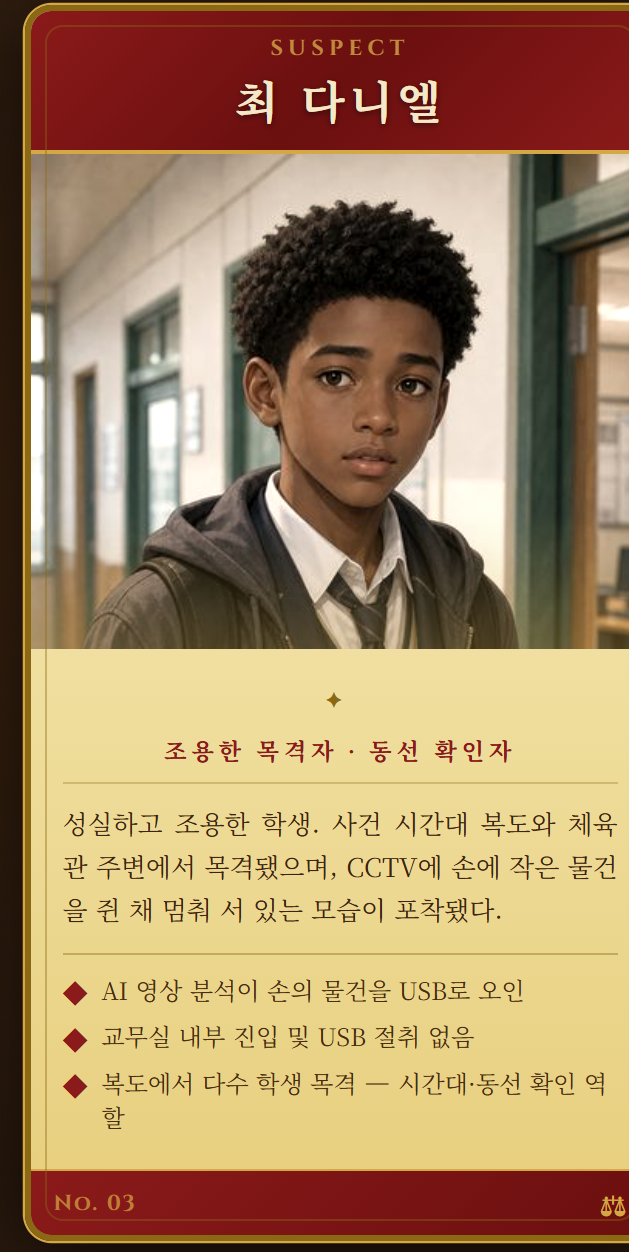
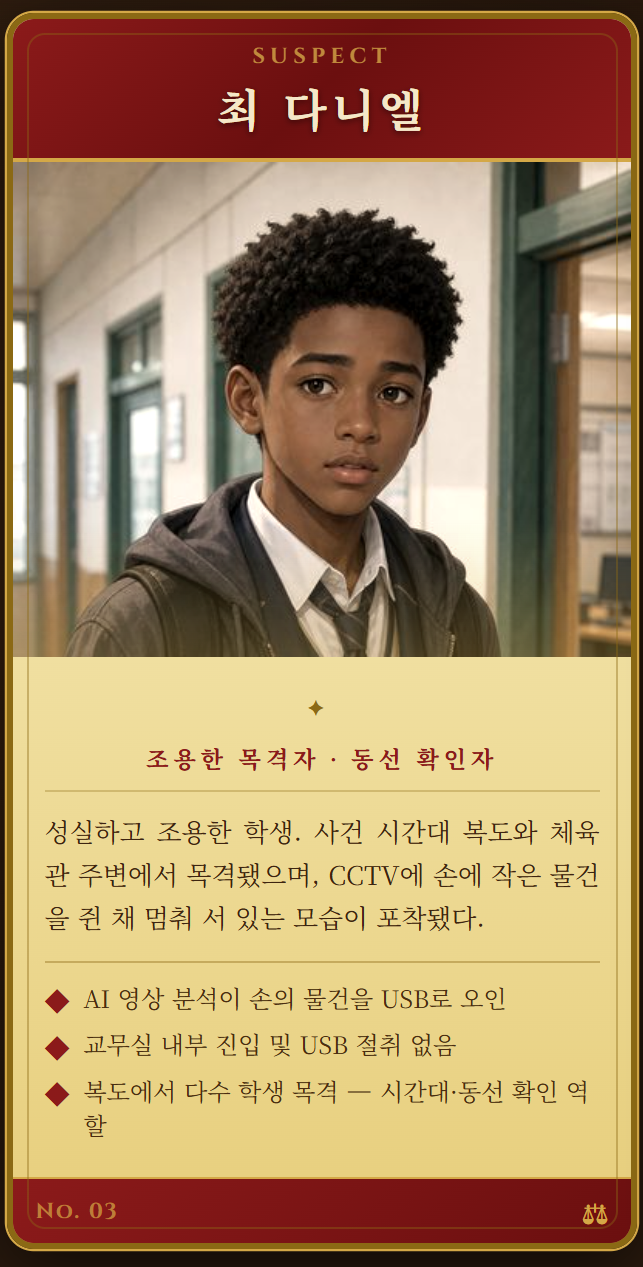
Fix suspect card preview cropping

diff --git a/student.html b/student.html
@@ -593,16 +593,6 @@
       object-position: top center;
       background: #000;
       padding: 0;
-      transform: scale(1.02);
-    }
-
-    .suspect-card::after {
-      content: "";
-      position: absolute;
-      inset: 82% 0 0;
-      background: #000;
-      pointer-events: none;
-      z-index: 1;
     }
 
     .lightbox-open {
@@ -625,8 +615,10 @@
 
     .card-lightbox__image {
       display: block;
-      max-width: min(96vw, 720px);
-      max-height: 94vh;
+      width: auto;
+      height: auto;
+      max-width: min(calc(100vw - 48px), 720px);
+      max-height: calc(100vh - 48px);
       object-fit: contain;
       border-radius: 8px;
       box-shadow: 0 24px 70px rgba(0, 0, 0, 0.62);
@@ -925,8 +917,8 @@
       }
 
       .card-lightbox__image {
-        max-width: 100%;
-        max-height: 92vh;
+        max-width: calc(100vw - 24px);
+        max-height: calc(100vh - 24px);
       }
     }
   </style>
